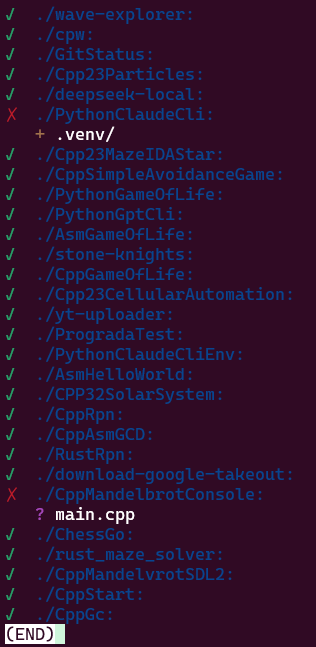
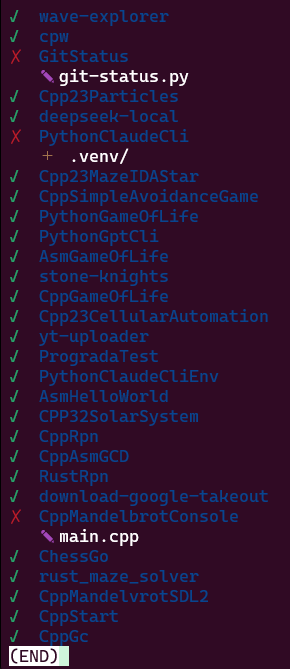
More cleaning of output

Changed region(s): [[0.0, 0.0, 0.931, 1.0]]

diff --git a/git-status.py b/git-status.py
@@ -16,22 +16,21 @@ class Colors:
 def symbol_for_status(status_code):
     """
     Given a two-character git status code (e.g. '??', 'M ', ' M'), return an extra symbol.
-    The first character is index status, the second is working tree status.
+    The first character is the index status, the second is the working tree status.
     """
-    code = status_code.replace(' ', '')  # Remove any spaces, leaving only letters or '?'.
+    code = status_code.replace(' ', '')  # Remove any spaces.
     if code == "??":
-        return f"{Colors.YELLOW}+{Colors.RESET}"  # untracked
+        return f"{Colors.YELLOW}＋{Colors.RESET}"  # untracked
     if "A" in code:
-        return f"{Colors.GREEN}?{Colors.RESET}"   # added
+        return f"{Colors.GREEN}➕{Colors.RESET}"   # added
     if "M" in code:
-        return f"{Colors.MAGENTA}?{Colors.RESET}" # modified
+        return f"{Colors.MAGENTA}✎{Colors.RESET}" # modified
     if "D" in code:
-        return f"{Colors.RED}?{Colors.RESET}"     # deleted
+        return f"{Colors.RED}✖{Colors.RESET}"     # deleted
     if "R" in code:
-        return f"{Colors.CYAN}?{Colors.RESET}"    # renamed
+        return f"{Colors.CYAN}➜{Colors.RESET}"    # renamed
     if "C" in code:
-        return f"{Colors.CYAN}?{Colors.RESET}"    # copied
-    # Fallback symbol for anything else:
+        return f"{Colors.CYAN}⧉{Colors.RESET}"    # copied
     return f"{Colors.RED}{code}{Colors.RESET}"
 
 def parse_short_status(line):
@@ -39,9 +38,8 @@ def parse_short_status(line):
     Parse a 'git status -s' line (e.g. '?? .venv/', ' M main.cpp').
     Returns a tuple (status_code, file_path).
     """
-    # The first 2 characters are the status code; the remainder is the file path.
     status_code = line[:2]
-    file_path = line[2:].strip()  # remove leading/trailing spaces from the remainder
+    file_path = line[2:].strip()  # remove leading/trailing spaces
     return status_code, file_path
 
 def git_status_in_subfolders(root_folder="."):
@@ -55,7 +53,8 @@ def git_status_in_subfolders(root_folder="."):
             if os.path.isdir(item_path) and item != ".":
                 git_dir = os.path.join(item_path, ".git")
                 if os.path.exists(git_dir) and os.path.isdir(git_dir):
-                    # Run 'git status -s' in this subfolder.
+                    # Remove leading './' if present for display.
+                    folder_display = item_path[2:] if item_path.startswith("./") else item_path
                     try:
                         process = subprocess.run(
                             ["git", "status", "-s"],
@@ -69,24 +68,21 @@ def git_status_in_subfolders(root_folder="."):
                         if not output:
                             # Clean repo: print with a green tick.
                             prefix = f"{Colors.GREEN}\u2713{Colors.RESET}  "
-                            print(f"{prefix}{Colors.BLUE}{item_path}:{Colors.RESET}")
+                            print(f"{prefix}{Colors.BLUE}{folder_display}{Colors.RESET}")
                         else:
                             # Dirty repo: print with a red cross.
                             prefix = f"{Colors.RED}\u2717{Colors.RESET}  "
-                            print(f"{prefix}{Colors.BLUE}{item_path}:{Colors.RESET}")
-
-                            # List changed files with extra symbols.
+                            print(f"{prefix}{Colors.BLUE}{folder_display}{Colors.RESET}")
                             for line in output.splitlines():
                                 if len(line) >= 2:
                                     status_code, file_info = parse_short_status(line)
                                     extra_symbol = symbol_for_status(status_code)
                                     print(f"   {extra_symbol} {file_info}")
                                 else:
-                                    # If for some reason we get a weird line, just print it indented.
                                     print(f"   {line}")
 
                     except subprocess.CalledProcessError as e:
-                        print(f"{Colors.RED}Error: git status failed in '{item_path}': {e}{Colors.RESET}")
+                        print(f"{Colors.RED}Error: git status failed in '{folder_display}': {e}{Colors.RESET}")
                     except FileNotFoundError:
                         print(f"{Colors.RED}Error: git command not found.{Colors.RESET}")
                 else:
@@ -97,3 +93,4 @@ def git_status_in_subfolders(root_folder="."):
 
 if __name__ == "__main__":
     git_status_in_subfolders()
+
